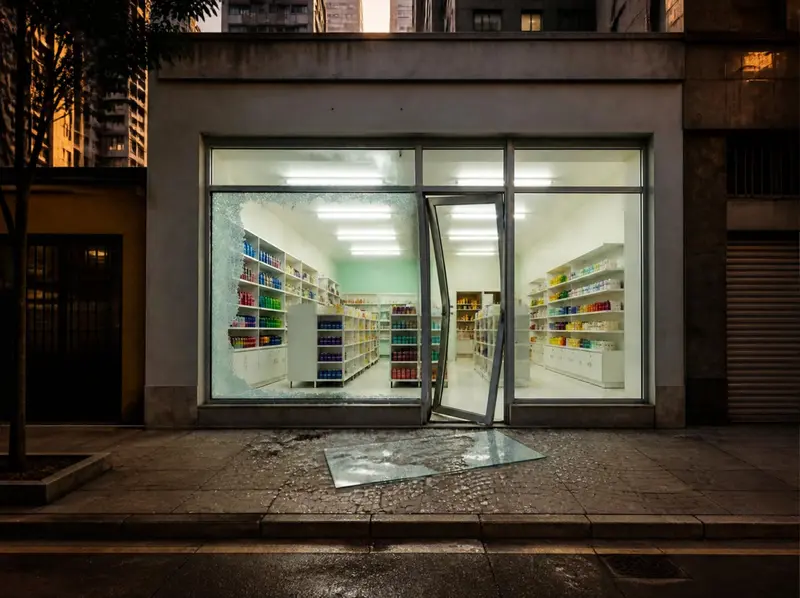
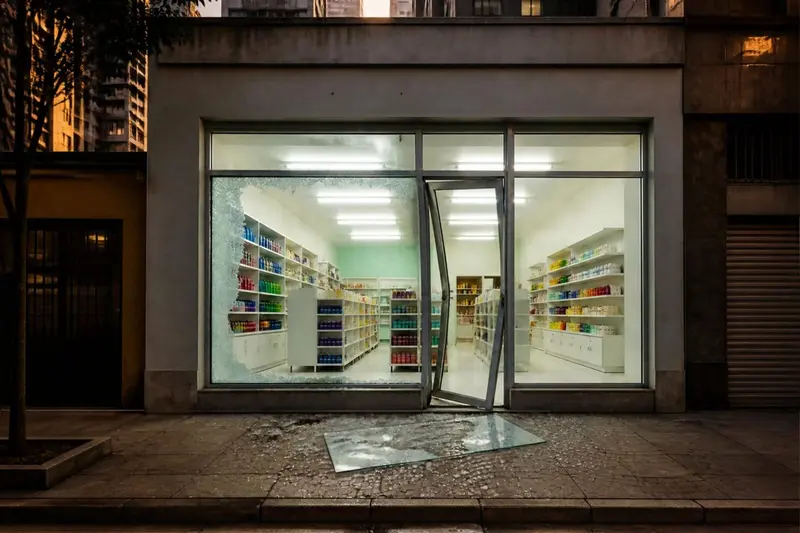
Empresarial: antes e depois alinhados no slider (#20)
Claude-Session: https://claude.ai/code/session_01NbZdAJxREaHUiLSeW6hUoJ

diff --git a/sobre.html b/sobre.html
@@ -262,7 +262,7 @@
       </article>
       <article class="story" id="empresarial" data-depois="img/sobre/empresarial-depois.jpg" data-par="empresarial" data-par-alt="A mesma loja com o vidro novo e um profissional finalizando a limpeza">
         <div class="story-media">
-          <picture><source type="image/webp" srcset="img/sobre/empresarial-800.webp 800w, img/sobre/empresarial-1600.webp 1600w" sizes="(max-width: 1023px) 100vw, 640px"><img src="img/sobre/empresarial.jpg" alt="Vitrine de uma loja ao entardecer com o vidro estilhaçado, a porta torta e um painel quebrado na calçada" width="1600" height="1196" loading="lazy" onerror="this.closest('.story').classList.add('no-photo')"></picture>
+          <picture><source type="image/webp" srcset="img/sobre/empresarial-800.webp 800w, img/sobre/empresarial-1600.webp 1600w" sizes="(max-width: 1023px) 100vw, 640px"><img src="img/sobre/empresarial.jpg" alt="Vitrine de uma loja ao entardecer com o vidro estilhaçado, a porta torta e um painel quebrado na calçada" width="1600" height="1066" loading="lazy" onerror="this.closest('.story').classList.add('no-photo')"></picture>
           <p class="story-quote"><span class="story-quote-label">Antes do imprevisto</span>“A loja nunca teve problema.”</p>
         </div>
         <div class="story-body">
